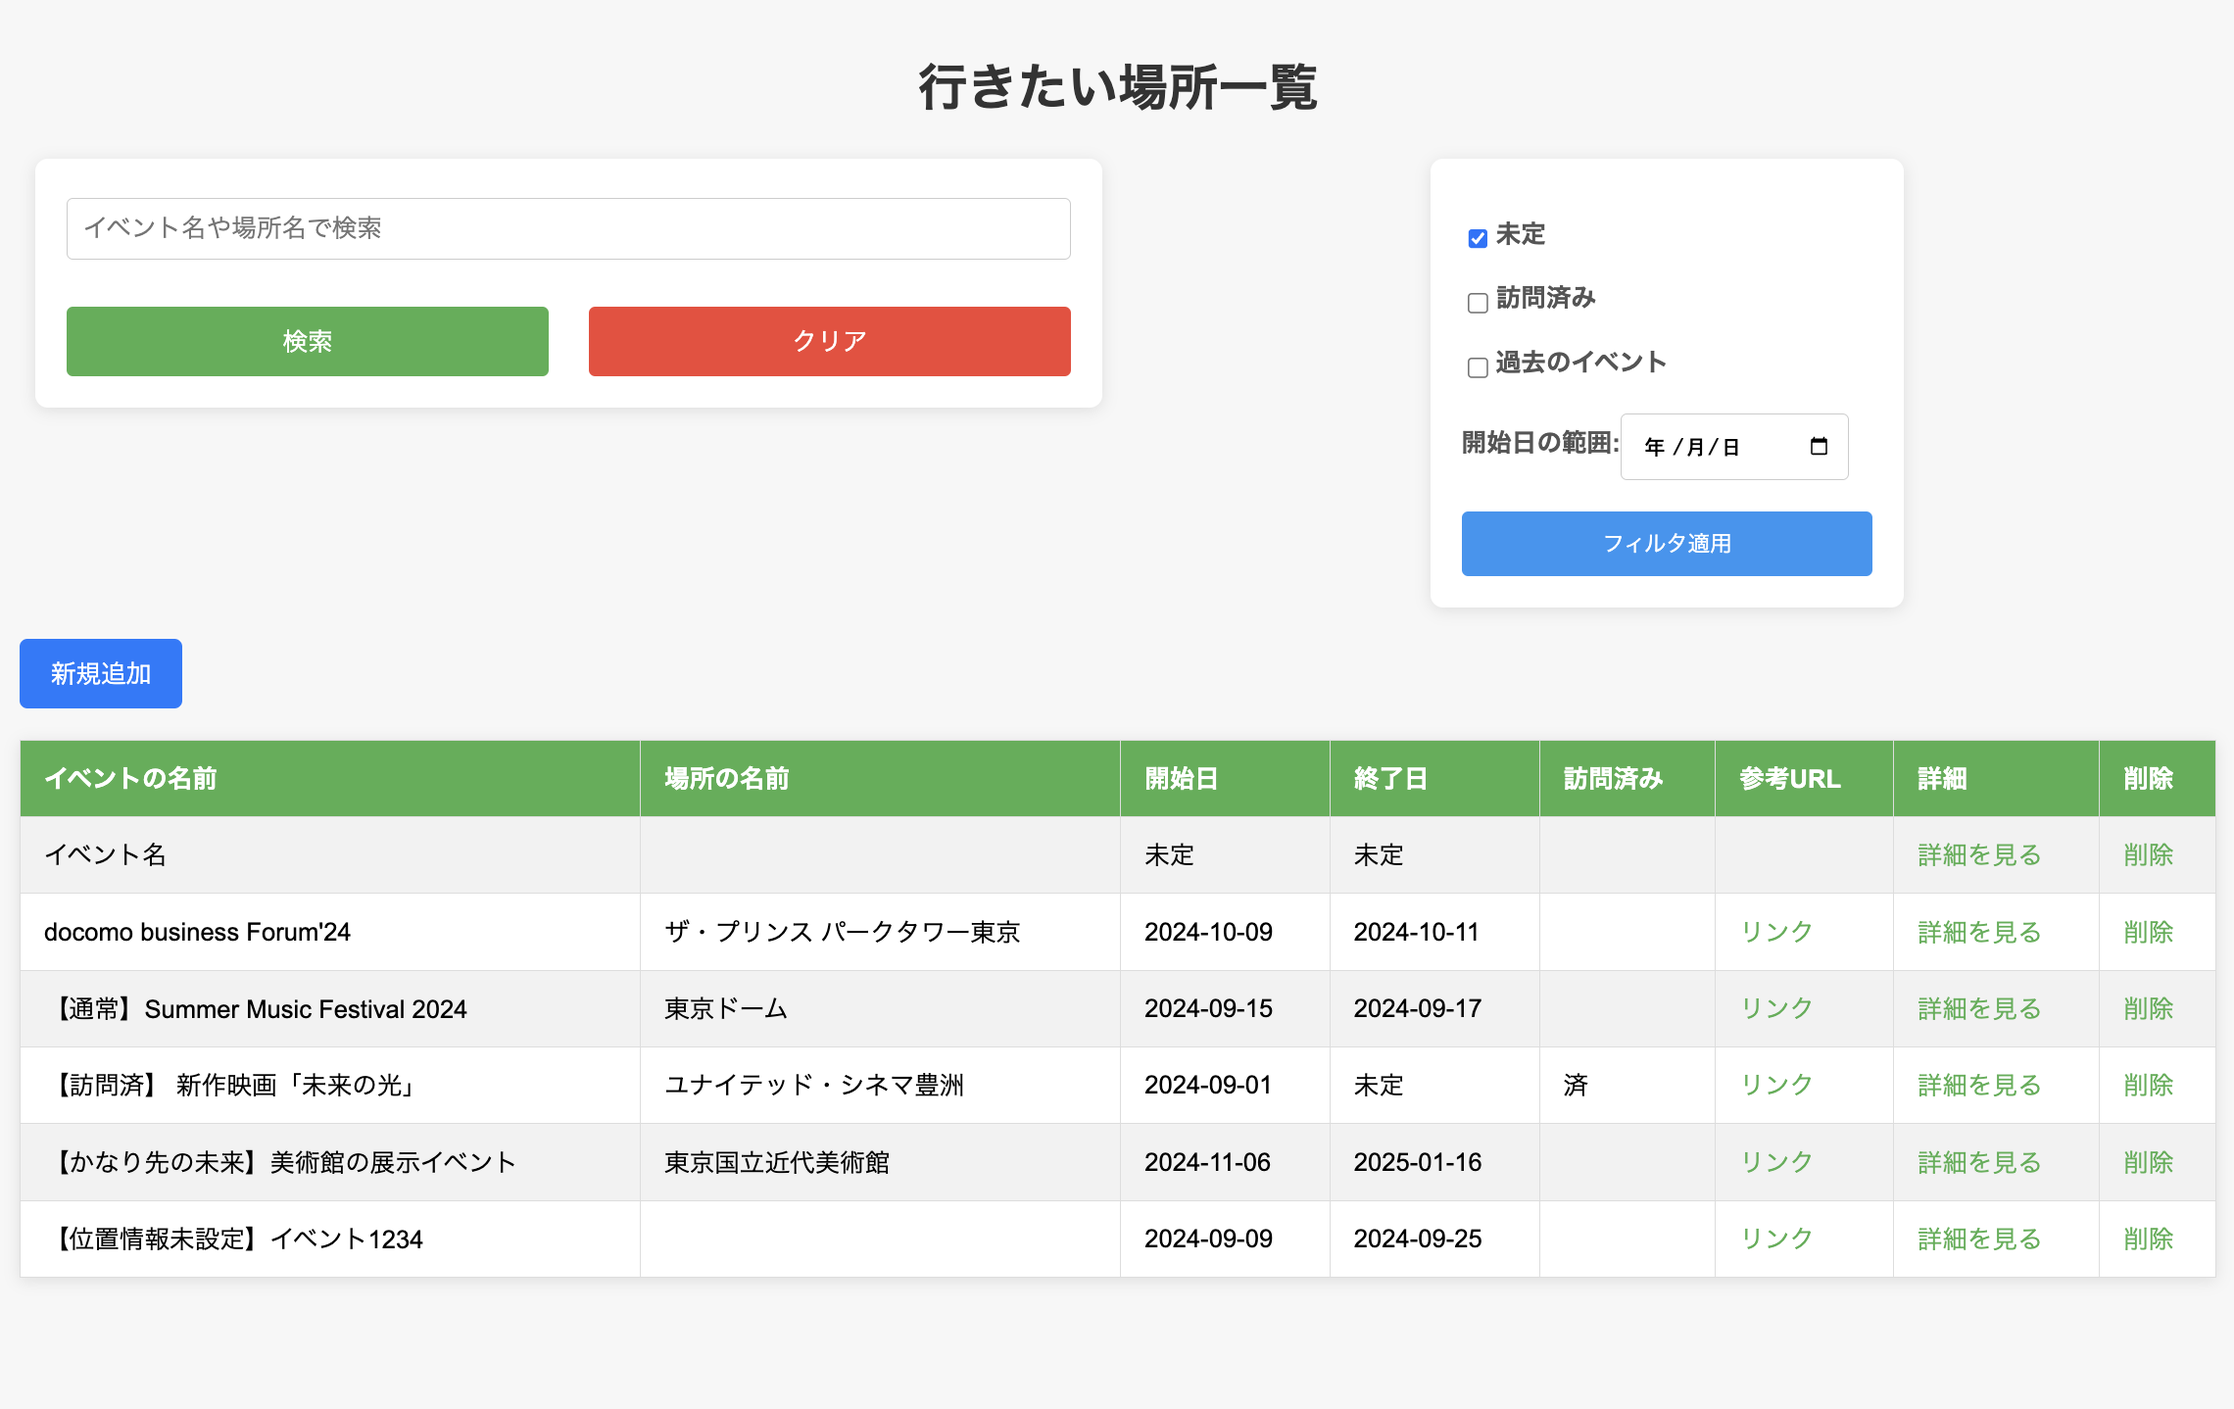
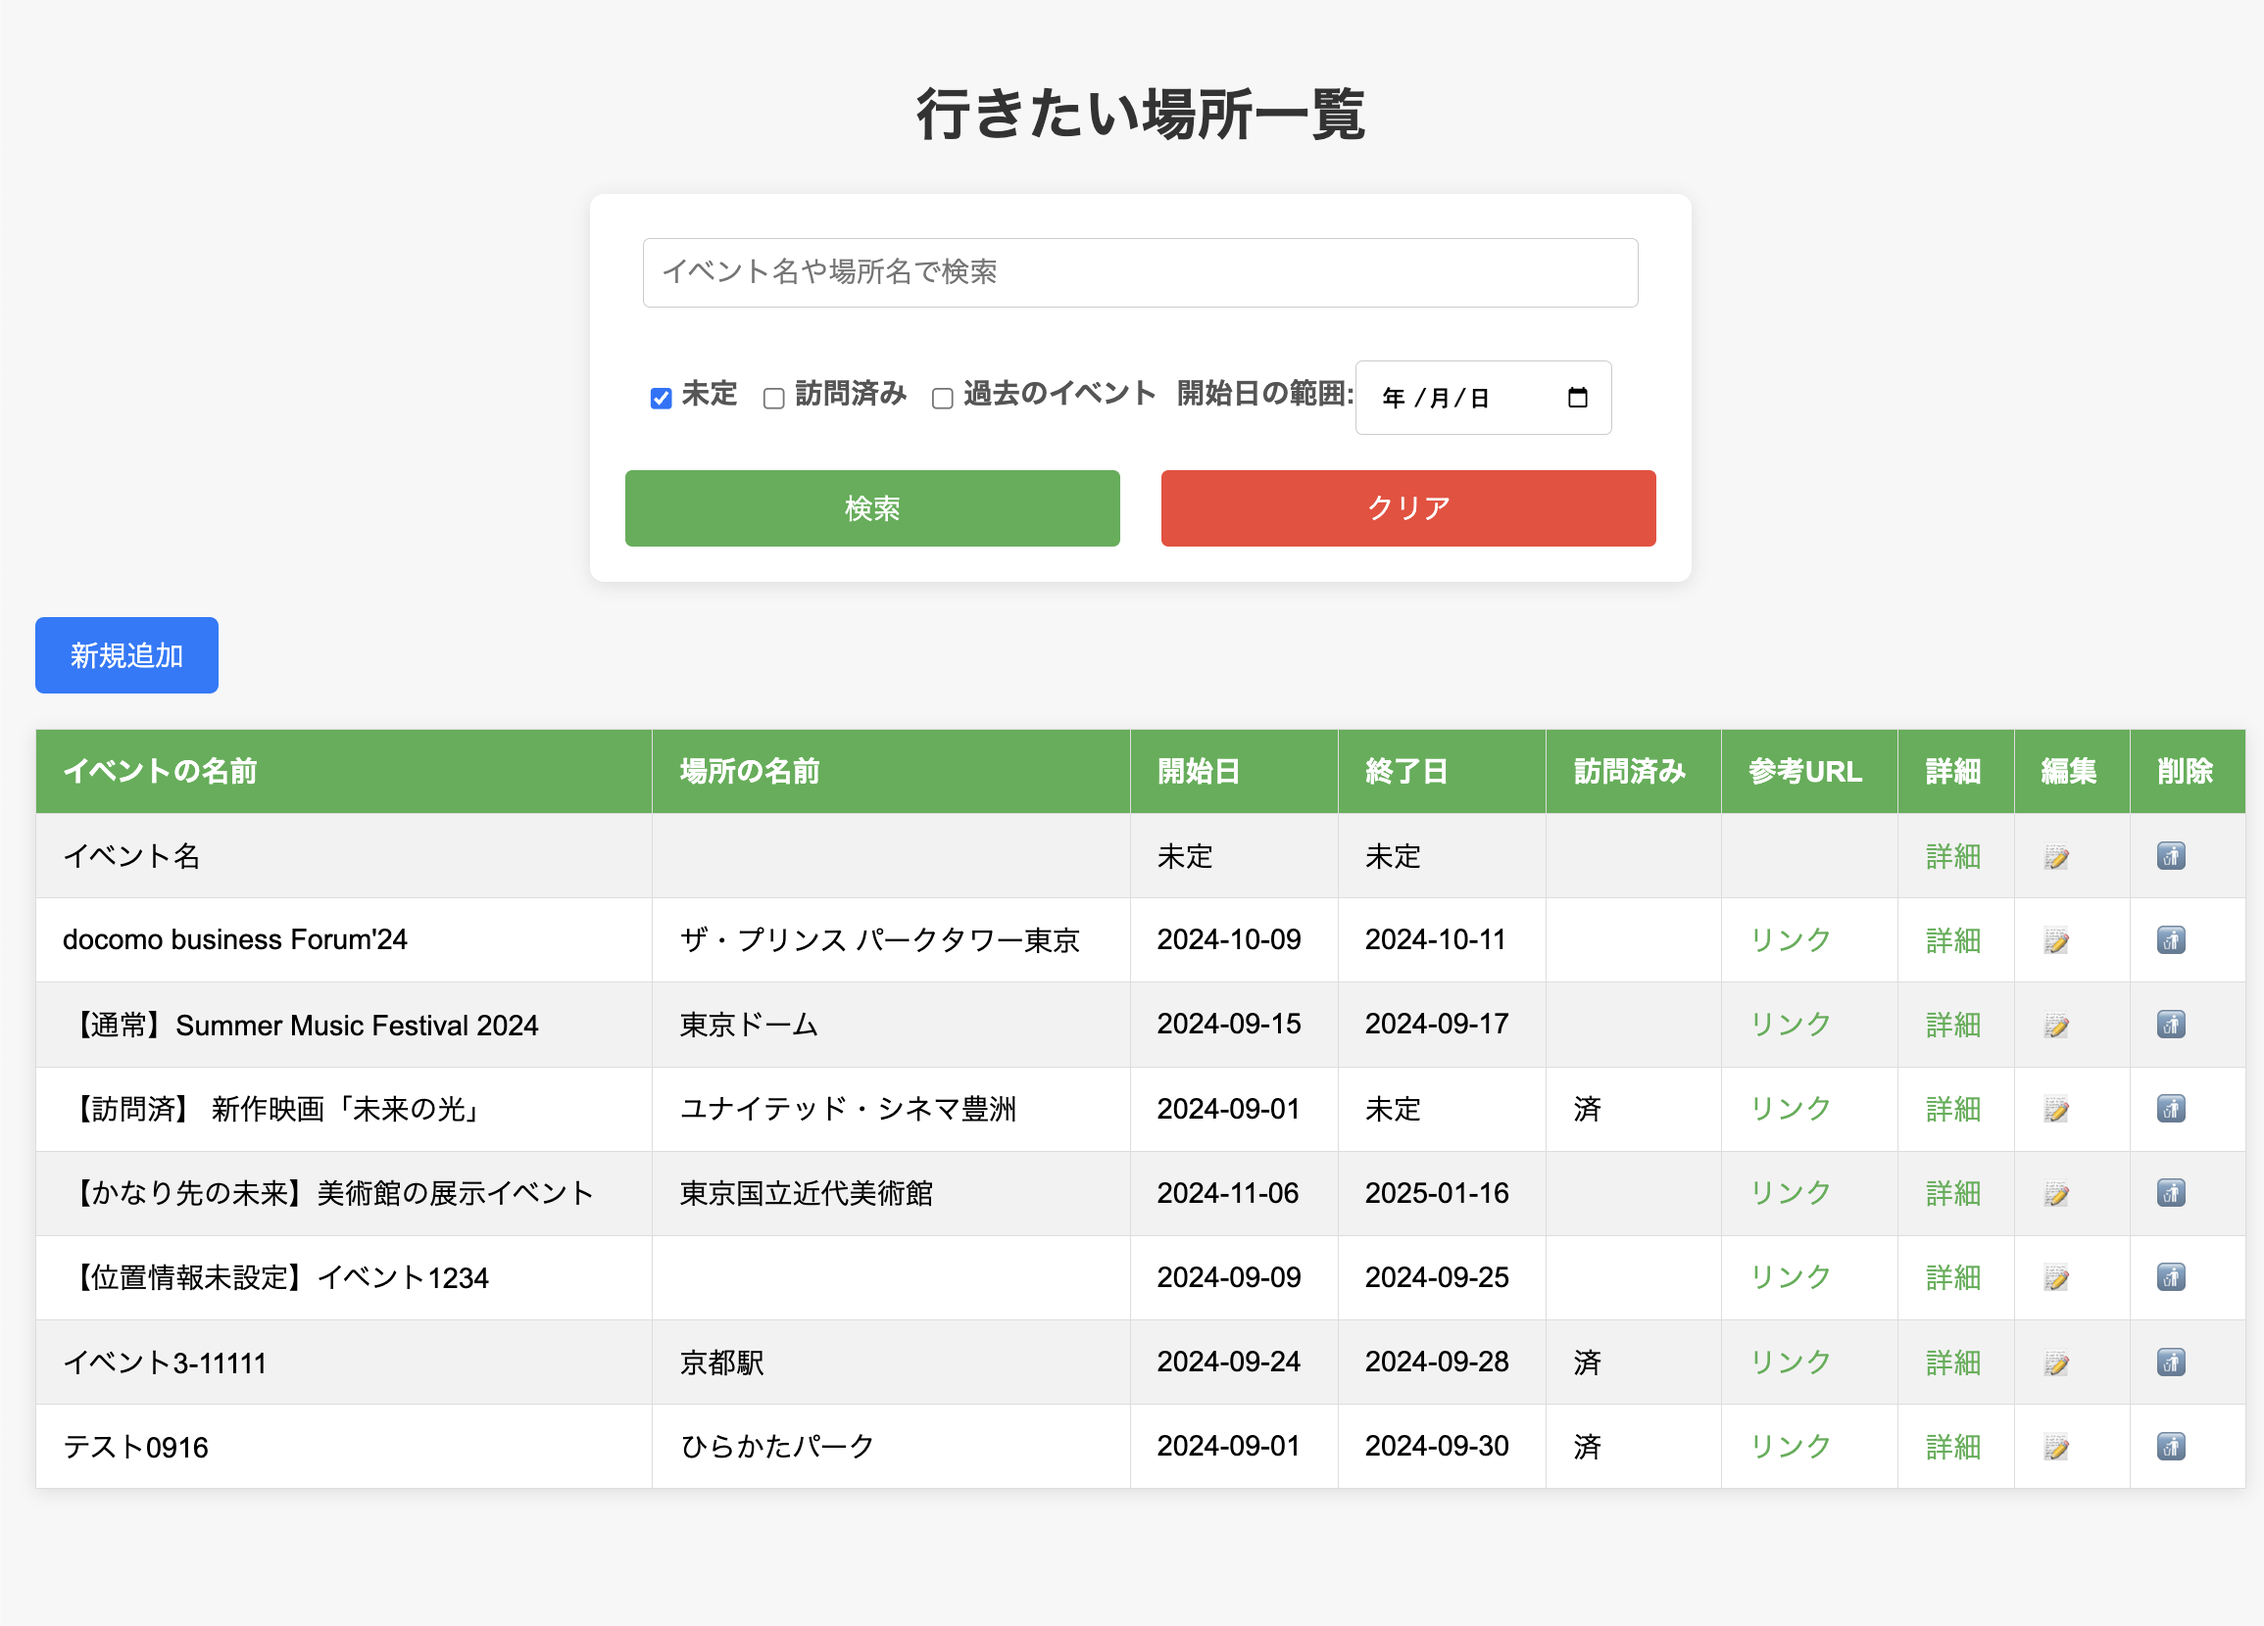
README更新

diff --git a/placemark-app/README.md b/placemark-app/README.md
@@ -1,34 +1,37 @@
 ## ①課題番号-プロダクト名
 
-行きたい場所/イベントを記録するアプリ
+行きたい場所/イベントを記録するアプリ（更新・削除あり）
 
 ## ②課題内容（どんな作品か）
 
 ### 行きたい場所やイベントを、日時情報や位置情報を含めて記録・検索できるアプリ
 
-- 行きたい場所の登録:
-  - ユーザーは、行きたい場所やイベントの名前、位置情報、開催期間、関連URL、メモ、訪問フラグなどを入力して登録できる
-  - Google Maps API を使用して場所の検索を行い、緯度・経度や場所名を自動取得
-  - 未定の場合は日付入力をグレーアウト
-- 行きたい場所の一覧表示:
-  - 登録された行きたい場所の一覧がテーブル形式で表示され、イベント名、場所名、開始日、終了日、訪問フラグ、関連URLが表示される
-  - 一覧画面には検索フォームがあり、イベント名や場所名で検索ができるほか、以下のフィルタ条件でリストを絞り込むことが可能
-    - 未定: 開催期間が未定のイベントを表示
-    - 訪問済み: 訪問済みのイベントを表示
-    - 開始日の範囲指定: 指定された日付までのイベントを表示
-- 詳細表示:
-  - 一覧画面の各行にある「詳細を見る」リンクをクリックすると、その場所やイベントの詳細情報（緯度・経度、関連URL、訪問フラグなど）を表示
-- データの削除機能
-  - 一覧画面の各行にある「削除」ボタンをクリックすると、その場所やイベントのデータを削除
-  - 詳細画面からも削除可能
+- 基本機能
+  - 行きたい場所の登録:
+    - ユーザーは、行きたい場所やイベントの名前、位置情報、開催期間、関連URL、メモ、訪問フラグなどを入力して登録できる
+    - Google Maps API を使用して場所の検索を行い、緯度・経度や場所名を自動取得
+  - 行きたい場所の一覧表示:
+    - 登録された行きたい場所の一覧がテーブル形式で表示され、イベント名、場所名、開始日、終了日、訪問フラグ、関連URLが表示される
+  - 一  覧画面には検索フォームがあり、イベント名や場所名で検索ができるほか、フィルタ条件でリストを絞り込むことが可能
+  - 詳細表示:
+    - 一覧画面の各行にある「詳細を見る」リンクをクリックすると、その場所やイベントの詳細情報（緯度・経度、関連URL、訪問フラグなど）を表示
+- 追加・改善した機能
+  - データの削除機能
+    - 一覧画面の各行にある「削除」ボタンをクリックすると、その場所やイベントのデータを削除
+    - 詳細画面からも削除可能
+  - データの更新機能
+    - 一覧画面の各行にある「編集」ボタンをクリックすると、その場所やイベントのデータを修正し更新登録することが可能
+    - 詳細画面からも更新可能
+  - 検索・絞り込み機能
+    - 検索と絞り込みが同時に利用できるように改善
   
 ![動作イメージ](./demo.png)
 ![動作イメージ](./demo2.png)
-![動作イメージ](./demo3.png)
+<!-- ![動作イメージ](./demo3.png) -->
 
 ## ③DEMO
 
-データ一覧画面：https://tech-ryu.sakura.ne.jp/bookmark-app
+データ一覧画面：https://tech-ryu.sakura.ne.jp/placemark-app
 
 ## ④作ったアプリケーション用のIDまたはPasswordがある場合
 
@@ -36,34 +39,29 @@
 
 ## ⑤工夫した点・こだわった点
 
-- Google Maps APIの活用による場所検索
-  - ユーザーは、Google Maps APIを使って直感的に場所を検索可能。場所名（ランドマーク名や施設名）を入力でするだけで候補から選択ができ、緯度・経度とIDを自動的に取得してDBに登録する。
-- 検索機能や絞り込み機能を実装
-  - ユーザーが登録したデータを見やすくするため、検索フォームやフィルタ条件を実装した。イベント名や場所名で検索ができるほか、未定のイベントや訪問済みのイベント、開始日の範囲指定などでリストを絞り込むことが可能。 
-- DBのアクセス情報を別のPHPファイルに切り出すことで、共通化とgitへのpush防止を行った（.gitignoreに追加）
+- 更新処理を行う`update.php`の処理
+  - 今後のことを考え、指定されたパラメーターのみを指定したSQL文を生成し、更新するようにした（→例：visited_flagのみ指定しても、えらーにならず必要部分のみ更新可能）
+- 更新・削除処理の実行後にメッセージを表示
+  - 更新・削除処理が正常に終了した場合、一覧画面にリダイレクトした後、画面右上に一時的にメッセージを表示するようにした
 
 ## ⑥難しかった点・次回トライしたいこと(又は機能)
 
-### 難しかった点
+<!-- ### 難しかった点
 
-- データの削除機能の実装方法
-  - 別のPHPファイルとして準備するべきかがよく分からなかった。次回の講義で学習した方法に修正予定。
-- データベースの登録エラーがわかりにくかった。
-  - フォームが空欄の場合、明示的にNULLにする必要があるが、予期せず空白の文字列が送られたりして、型のエラーが出たりしてしまった。
+-  -->
 
 ### 次回トライしたいこと
 
-- 検索、絞り込み機能の改善
-  - 検索と絞り込み機能を別にしてしまったため、絞り込み条件を入力しても検索結果がリセットされてしまう。検索結果を保持したまま絞り込み条件を適用できるように改善したい。
-- データの更新機能
-  - 時間の都合で実装ができなかった。詳細画面から登録したデータを編集・更新できるようにしたい。
+- 絞り込み機能の改善
+  - 前回の条件をローカルに記憶しておき、ページ遷移や更新削除時に元の状態を保持する機能
 - ユーザ認証機能、ユーザごとにデータを記録できる機能
- 
+- ファイル(csv等)としてデータをダウンロード・アップロードできる機能
+   
 ## ⑦質問・疑問・感想、シェアしたいこと等なんでも
 
 - [質問]
 - [感想]
-  - 場所の検索機能は、Google MapのAPIを使うことで、ユーザーが直感的に場所を検索できる機能を簡単に実装できた。GoogleマップのSDKは様々な高度な機能が用意されているようなので、今後も活用していきたい。
-  - 以前の課題で作成した旅程計算アプリと連携させる機能も開発してみたい。
+  - 今週は作業時間が十分にとれなかったため、最低限の更新・削除機能の実装と前回の一部課題の改善に留まった
+  - アプリの機能として、ユーザ認証やユーザごとのデータ管理機能を追加することは必須なため、次回講義を参考に実装を進めたい
 - [参考記事]
   - [Place Autocomplete(Google Maps API)](https://developers.google.com/maps/documentation/javascript/places-autocomplete?hl=ja)
